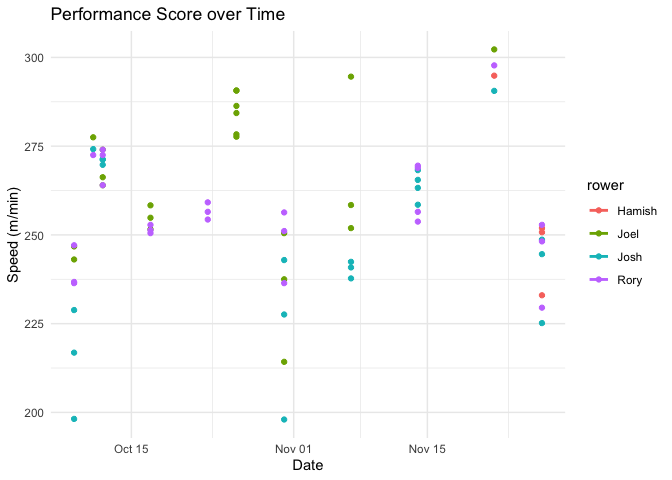
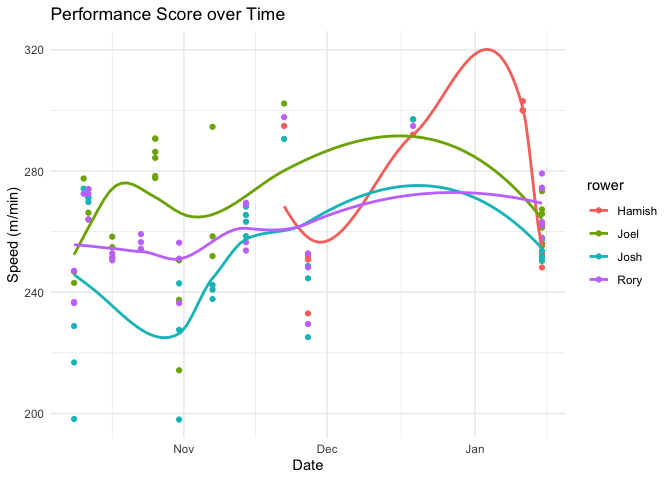
update

diff --git a/row-tracking.md b/row-tracking.md
@@ -19,7 +19,7 @@ skim(rowing_data)
 |                                                  |             |
 |:-------------------------------------------------|:------------|
 | Name                                             | rowing_data |
-| Number of rows                                   | 71          |
+| Number of rows                                   | 103         |
 | Number of columns                                | 6           |
 | \_\_\_\_\_\_\_\_\_\_\_\_\_\_\_\_\_\_\_\_\_\_\_   |             |
 | Column type frequency:                           |             |
@@ -39,18 +39,18 @@ Data summary
 
 **Variable type: numeric**
 
-| skim_variable | n_missing | complete_rate |    mean |     sd |  p0 |     p25 |  p50 |  p75 | p100 | hist  |
-|:--------------|----------:|--------------:|--------:|-------:|----:|--------:|-----:|-----:|-----:|:------|
-| erg_no        |         0 |             1 |    2.07 |   1.09 |   1 |    1.00 |    2 |    3 |    6 | ▇▃▁▁▁ |
-| time_mins     |         0 |             1 |    9.23 |   3.51 |   3 |    6.31 |   12 |   12 |   12 | ▃▁▂▁▇ |
-| distance      |         0 |             1 | 2313.11 | 803.84 | 833 | 1832.50 | 2731 | 2995 | 3535 | ▆▁▅▇▇ |
-| stroke_rate   |         0 |             1 |   22.94 |   4.42 |  14 |   21.00 |   22 |   26 |   30 | ▂▅▇▅▆ |
+| skim_variable | n_missing | complete_rate |    mean |     sd |     p0 |  p25 |     p50 |  p75 | p100 | hist  |
+|:--------------|----------:|--------------:|--------:|-------:|-------:|-----:|--------:|-----:|-----:|:------|
+| erg_no        |         0 |             1 |    2.38 |   1.41 |   1.00 |    1 |    2.00 |    3 |    6 | ▇▃▁▁▁ |
+| time_mins     |         0 |             1 |    8.14 |   3.49 |   1.65 |    6 |    6.85 |   12 |   12 | ▂▂▆▂▇ |
+| distance      |         0 |             1 | 2070.54 | 806.06 | 500.00 | 1533 | 2000.00 | 2912 | 3535 | ▆▇▅▆▇ |
+| stroke_rate   |         0 |             1 |   23.47 |   4.12 |  14.00 |   22 |   22.00 |   26 |   31 | ▁▂▇▃▃ |
 
 **Variable type: POSIXct**
 
 | skim_variable | n_missing | complete_rate | min        | max        | median     | n_unique |
 |:--------------|----------:|--------------:|:-----------|:-----------|:-----------|---------:|
-| date          |         0 |             1 | 2023-10-09 | 2023-11-27 | 2023-10-31 |       11 |
+| date          |         0 |             1 | 2023-10-09 | 2024-01-15 | 2023-11-14 |       14 |
 
 ``` r
 calculate_days_between <- function(data) {
@@ -118,10 +118,10 @@ print(summary_stats)
     ## # A tibble: 4 × 6
     ##   rower  avg_speed avg_efficiency total_distance total_time avg_burnout_index
     ##   <chr>      <dbl>          <dbl>          <dbl>      <dbl>             <dbl>
-    ## 1 Hamish      258.          143.           10828       42.8               Inf
-    ## 2 Joel        266.           94.4          45147      175.                Inf
-    ## 3 Josh        247.          110.           48359      201.                Inf
-    ## 4 Rory        256.          119.           59897      237.                Inf
+    ## 1 Hamish      270.           79.6          25548       98.3               Inf
+    ## 2 Joel        267.           87.8          56659      217.                Inf
+    ## 3 Josh        250.           99.5          59496      244.                Inf
+    ## 4 Rory        260.          107.           71563      280.                Inf
 
 ``` r
 ggplot(processed_data, aes(x = date, y = burnout_index, color = rower)) +
@@ -187,26 +187,26 @@ summary(speed_model)
     ## Formula: speed ~ days_between_sessions + (1 | rower)
     ##    Data: processed_data
     ## 
-    ## REML criterion at convergence: 631
+    ## REML criterion at convergence: 908.1
     ## 
     ## Scaled residuals: 
     ##     Min      1Q  Median      3Q     Max 
-    ## -2.4969 -0.5473 -0.1145  0.7343  1.9466 
+    ## -3.3709 -0.5687 -0.0440  0.7052  1.7721 
     ## 
     ## Random effects:
     ##  Groups   Name        Variance Std.Dev.
-    ##  rower    (Intercept)  52.29    7.232  
-    ##  Residual             445.58   21.109  
-    ## Number of obs: 71, groups:  rower, 4
+    ##  rower    (Intercept)  60.75    7.794  
+    ##  Residual             394.05   19.851  
+    ## Number of obs: 103, groups:  rower, 4
     ## 
     ## Fixed effects:
-    ##                        Estimate Std. Error t value
-    ## (Intercept)           256.45126    4.75905  53.887
-    ## days_between_sessions   0.06179    0.63744   0.097
+    ##                       Estimate Std. Error t value
+    ## (Intercept)           258.7006     4.4885  57.636
+    ## days_between_sessions   0.8144     0.2769   2.941
     ## 
     ## Correlation of Fixed Effects:
     ##             (Intr)
-    ## dys_btwn_ss -0.269
+    ## dys_btwn_ss -0.210
 
 ``` r
 # Visualizations
